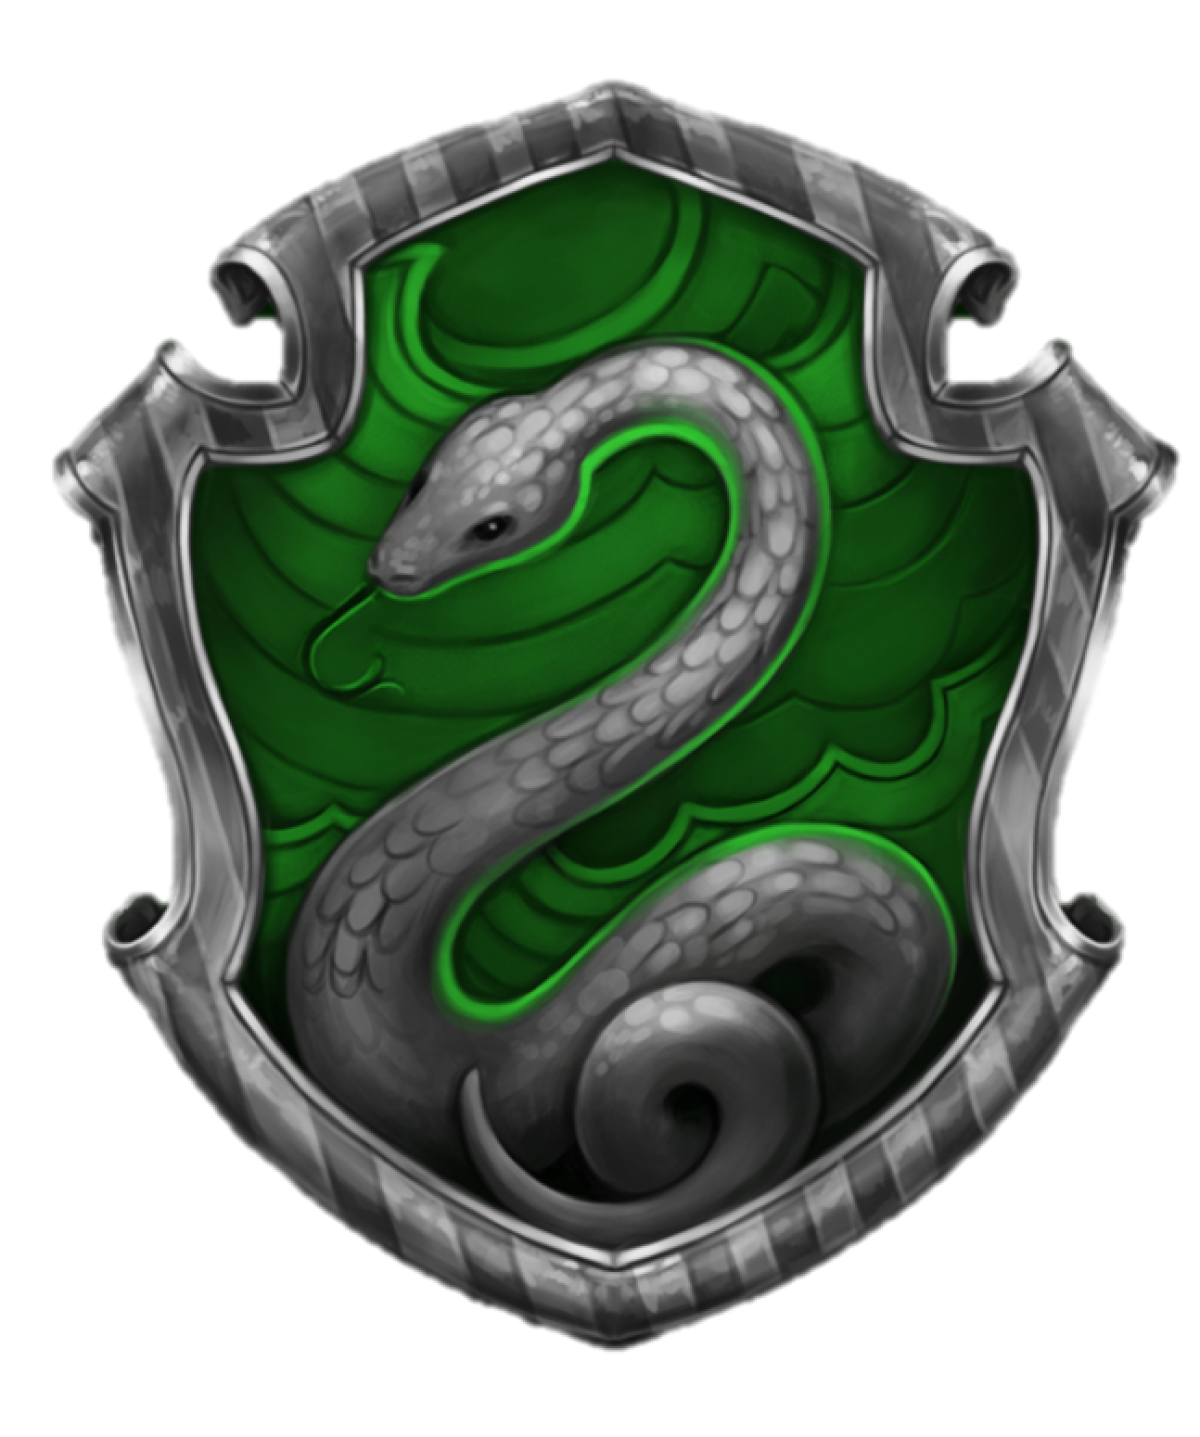
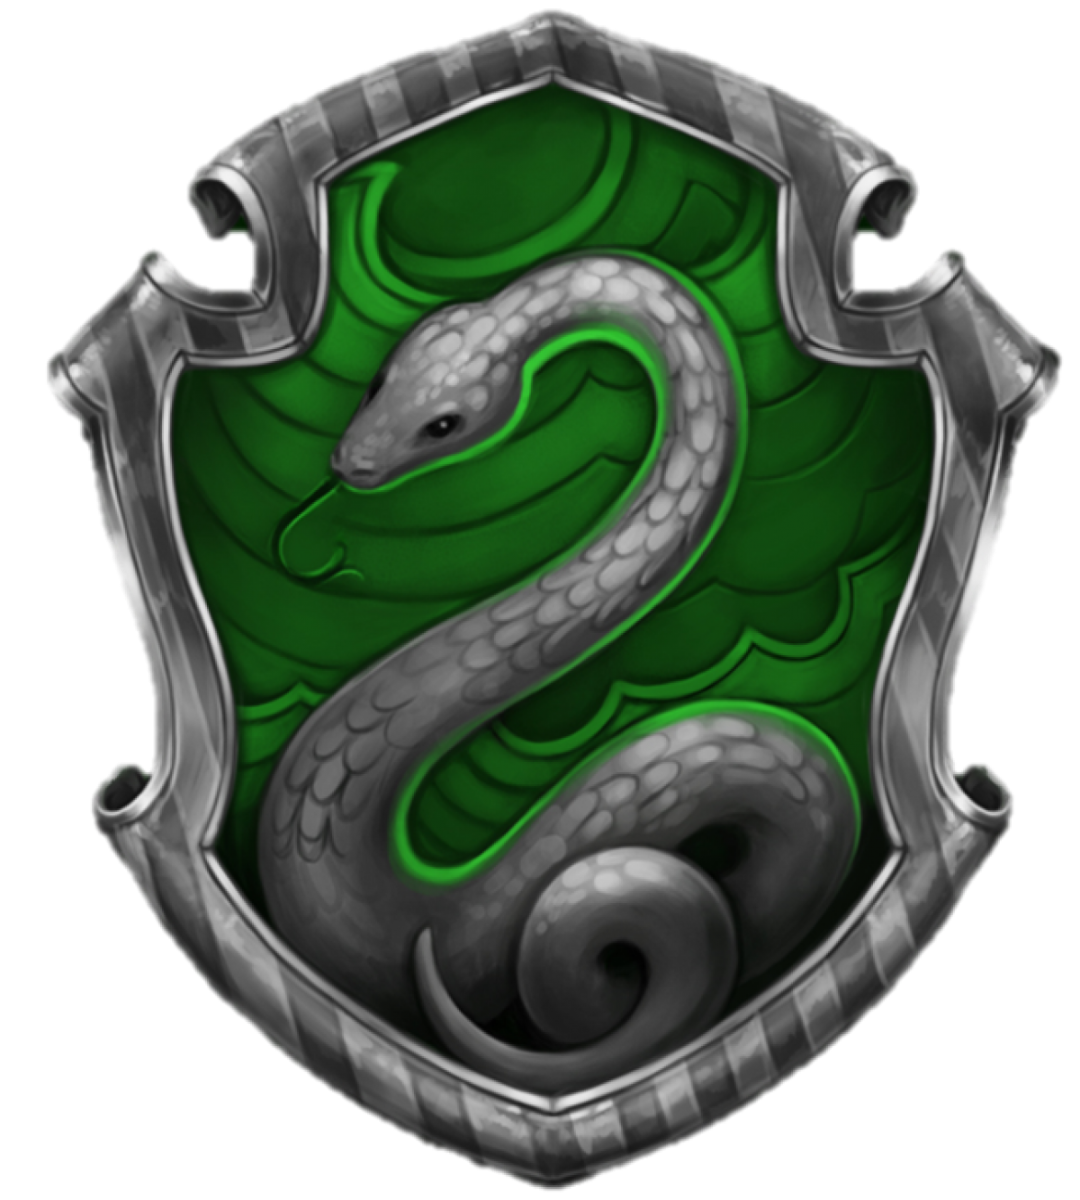
Second commit

diff --git a/src/app/app.component.html b/src/app/app.component.html
@@ -1,12 +1,11 @@
 <div class="Tittle">
-    <h6>Listado de Alumnos</h6>
+    <h6>Listado de Miembros</h6>
 </div>
-
 
 <div class="row row-cols-2 row-cols-lg-4 g-2g-lg-3" id="house-button">
     <div class="col">
         <div class="col">
-            <img src="assets/img/gryffindor.png" width="200" height="210">
+            <img src="assets/img/gryffindor.png" class="escudos">
             <div class="col" id="count">
                 <h1>{{countGryffindor}}</h1>
             </div>
@@ -15,7 +14,7 @@
     </div>
     <div class="col">
         <div class="col">
-            <img src="assets/img/Slytherin.png" width="200" height="210">
+            <img src="assets/img/Slytherin.png"  class="escudos">
             <div class="col" id="count">
                 <h1>{{countSlytherin}}</h1>
             </div>
@@ -24,7 +23,7 @@
     </div>
     <div class="col">
         <div class="col">
-            <img src="assets/img/Ravenclaw.png" width="200" height="210">
+            <img src="assets/img/Ravenclaw.png"  class="escudos">
             <div class="col" id="count">
                 <h1>{{countRavenclaw}}</h1>
             </div>
@@ -33,7 +32,7 @@
     </div>
     <div class="col">
         <div class="col">
-            <img src="assets/img/Hufflepuff.png" width="200" height="210">
+            <img src="assets/img/Hufflepuff.png" class="escudos">
             <div class="col" id="count">
                 <h1>{{countHufflepuff}}</h1>
             </div>

diff --git a/src/styles.sass b/src/styles.sass
@@ -1,2 +1,9 @@
 body
     background-image: url('assets/img/fondo.jpg')
+    background-repeat: no-repeat
+    background-position: center center
+    background-attachment: fixed
+    background-size: cover
+    background-color: #6699
+
+    

diff --git a/src/app/app.component.ts b/src/app/app.component.ts
@@ -71,6 +71,8 @@ export class AppComponent {
     this.hogwartsCharacters.sort((a,b) => a.name.localeCompare(b.name))
   }
 
+
+
   ngOnInit() {
     this.getAllCharacters()
     this.countMembers()

diff --git a/src/app/app.component.sass b/src/app/app.component.sass
@@ -48,6 +48,9 @@ h6
 #searchbtn
     margin-top: 50px
     margin-bottom: 50px
+.escudos
+    width: 200px
+    height:  210px
 
 
 
